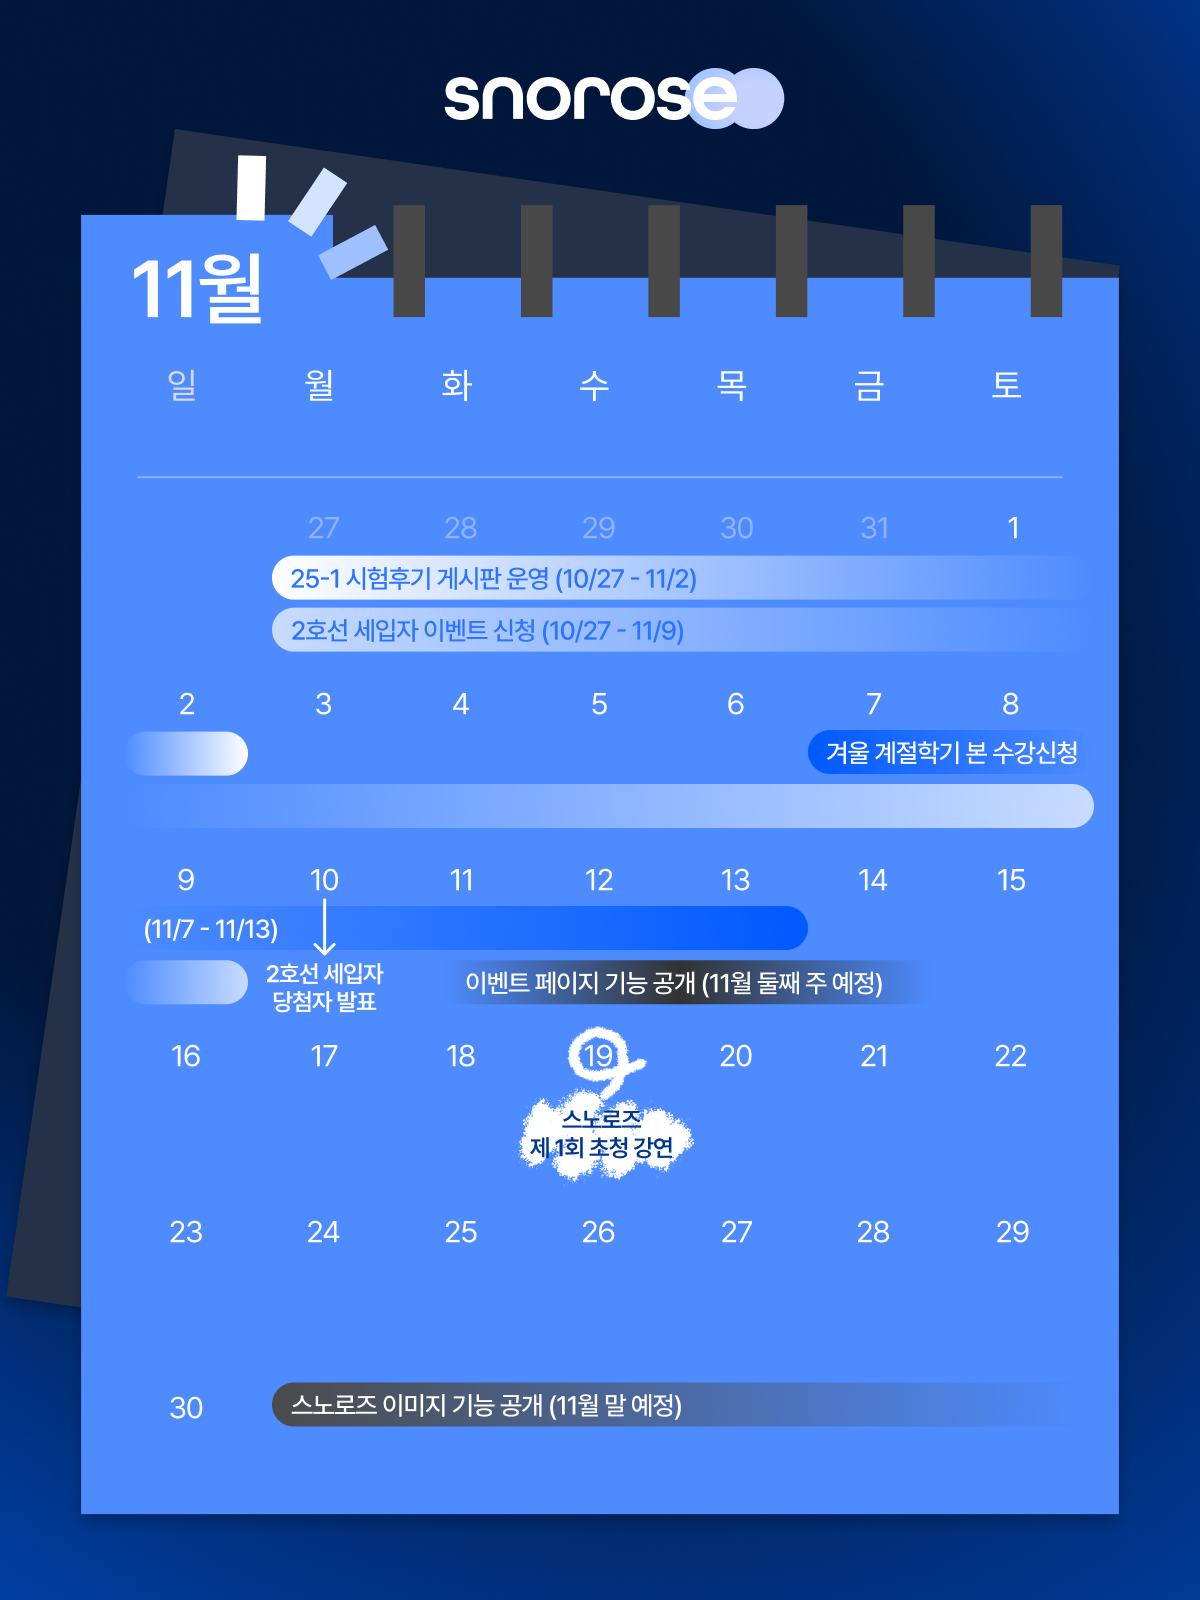
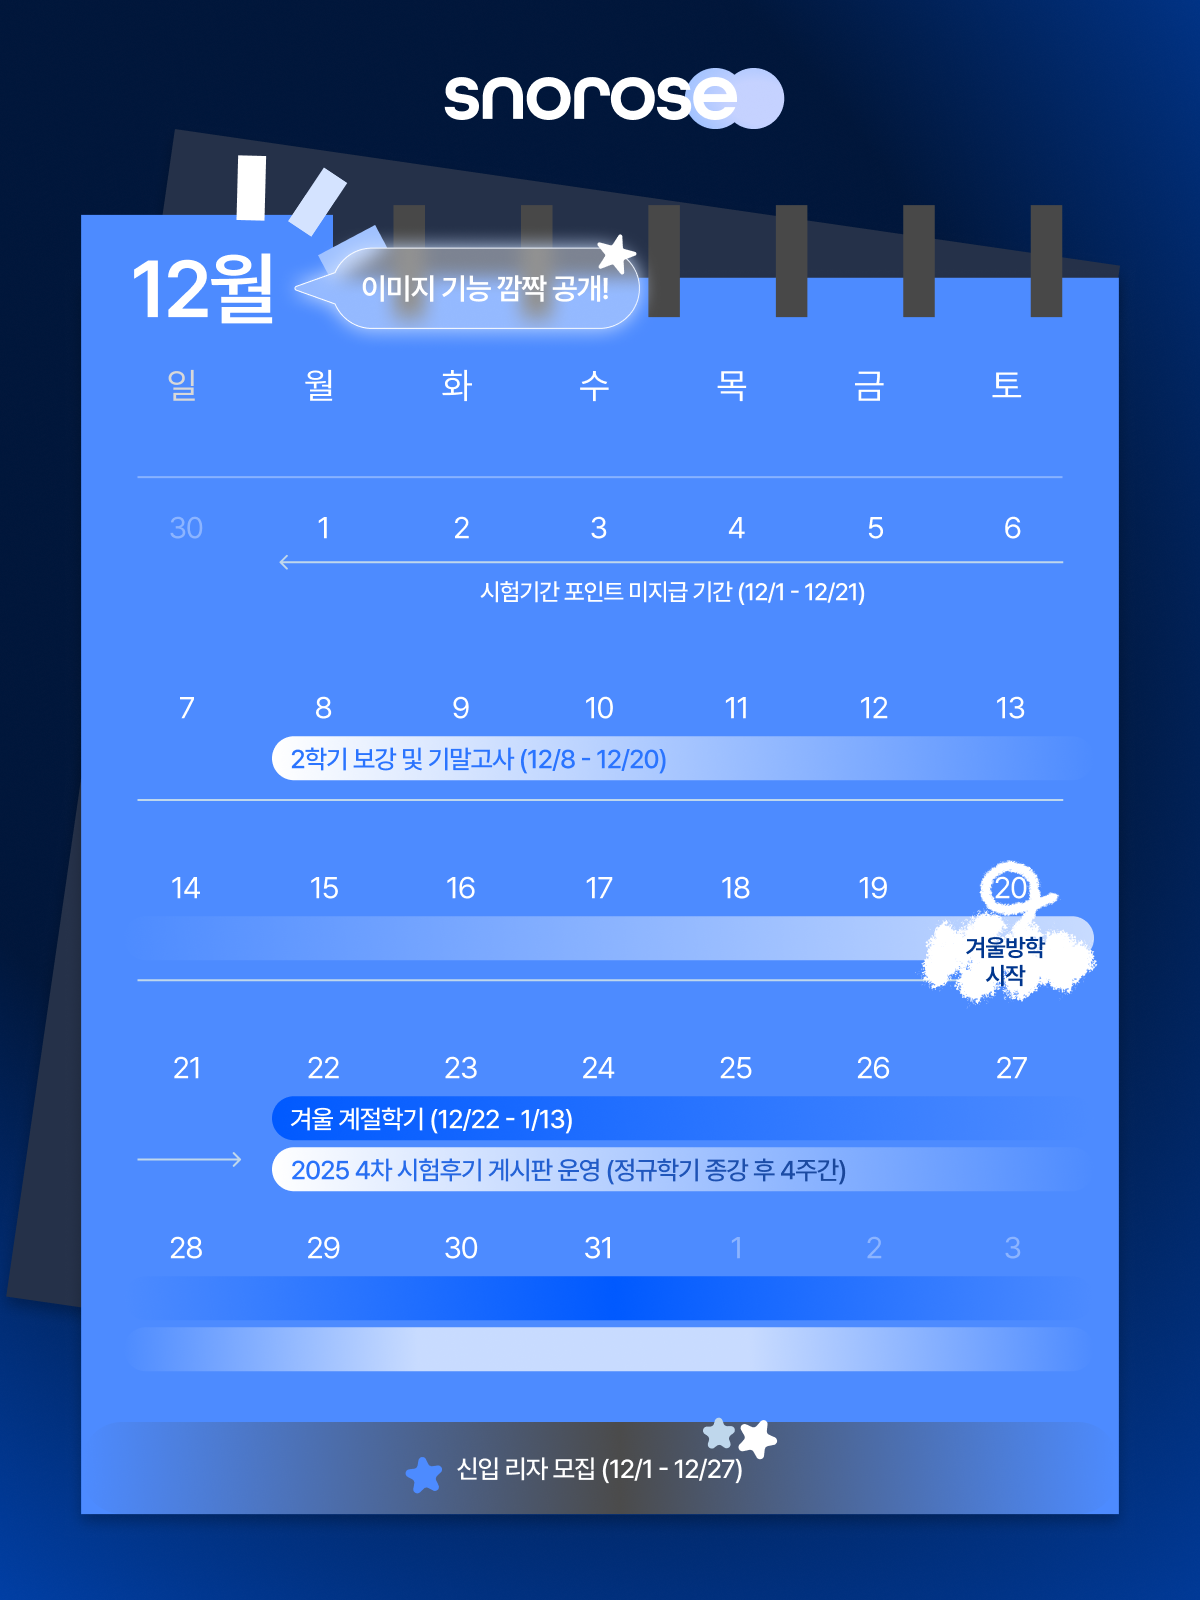
#1316 [FEAT] 1130 팝업 수정 (#1317)

diff --git a/src/feature/home/component/PopUp/PopUp.jsx b/src/feature/home/component/PopUp/PopUp.jsx
@@ -2,7 +2,7 @@ import { useState } from 'react';
 
 import { usePopUp } from '@/feature/home/hook';
 import styles from './PopUp.module.css';
-// import calendar from './calendar.png';
+import calendar from './calendar.png';
 // import accounting from './accounting.png';
 import eventLectureImage from './event_lecture.png';
 
@@ -55,12 +55,28 @@ const content = (
         <img src={eventLectureImage} alt='초청강연 이벤트' />
       </Content> */}
 
-      {/* <Heading>11월 스노로즈 일정</Heading>
+      <Heading>1. 시험기간 포인트 미지급 기간 공지</Heading>
+      <Content>
+        - 기간: 12월 1일(월) 00:00 ~ 12월 21일(일) 23:59
+        <br />
+        - 위 기간 동안 글, 댓글 포인트는 지급되지 않습니다. <br />- 자세한
+        내용은{' '}
+        <a
+          className={styles.link}
+          href='https://www.snorose.com/board/notice/post/1866252'
+          alt='글/댓글 포인트 미지급 기간 안내'
+        >
+          관련 공지
+        </a>
+        를 참고 부탁드립니다.
+      </Content>
+
+      <Heading>2. 12월 스노로즈 일정</Heading>
       <Content>
         <img src={calendar} alt='캘린더' />
-      </Content> */}
+      </Content>
 
-      <Heading>1. 스노로즈 &lt;이벤트 게시판&gt; 런칭 안내</Heading>
+      {/* <Heading>1. 스노로즈 &lt;이벤트 게시판&gt; 런칭 안내</Heading>
       <Content>
         이벤트 게시판이 새롭게 오픈되었습니다! <br />
         <strong>[게시판 &gt; 스노로즈 이벤트]</strong>에서 새롭게 단장한 이벤트
@@ -77,9 +93,9 @@ const content = (
           </a>
         </strong>
         를 참고해 주세요.
-      </Content>
+      </Content> */}
 
-      <Heading>
+      {/* <Heading>
         2. 스노로즈 블로그 &lt;스노로즈 리뉴얼&gt; 프론트엔드 파트편 공개
       </Heading>
       <Content>
@@ -97,7 +113,7 @@ const content = (
           </a>
         </strong>
         에서 확인하실 수 있어요. <br />
-      </Content>
+      </Content> */}
 
       {/* <Heading>2. 7월 회계 보고</Heading>
       <Content>
